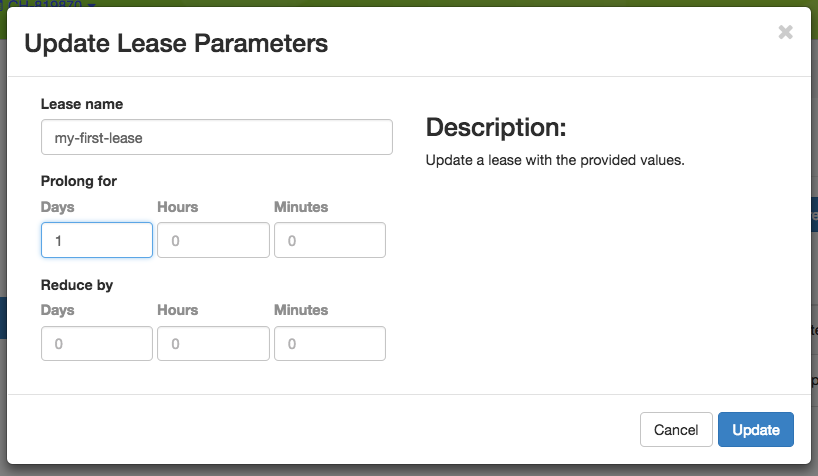
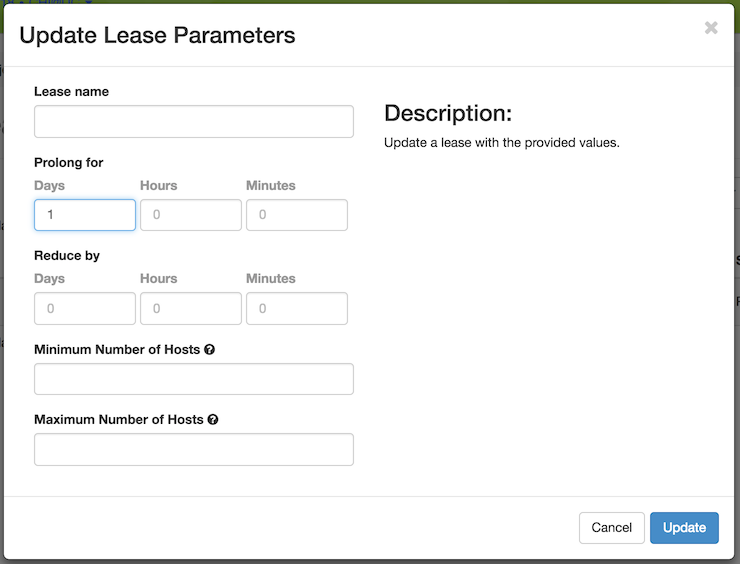
Document how to change the number of reserved nodes
This commit also updates screenshots to adapt to the new format for
lease status.

diff --git a/source/technical/reservations.rst b/source/technical/reservations.rst
@@ -100,6 +100,22 @@ Fill out the form by specifying the amount of additional time to add to the leas
 .. tip:: 
    If there is an advance reservation blocking your lease prolongation that could potentially be moved, you can interact through the users mailing list to coordinate with others users. Additionally, if you know from the start that your lease will require longer than a week and can justify it, you can submit a ticket on our `help desk <https://www.chameleoncloud.org/user/help/>`_ to request a **one-time exception** of creating a longer lease.
 
+Changing the Number of Nodes of a Lease
+---------------------------------------
+
+It is now possible to change the number of nodes reserved in a lease.
+For advance reservations that haven't yet started, the node count can be increased or decreased.
+For reservations already started, only new nodes can be added.
+
+To change the number of nodes of a lease, click on the *Update Lease* button in *Actions* column.
+
+.. figure:: reservations/updateleasenodecount.png
+   :alt: The Update Lease Parameters dialog, changing the number of reserved nodes
+
+   The Update Lease Parameters dialog, changing the number of reserved nodes
+
+Fill out the form by specifying the new minimum and maximum numbers of hosts. Then, click on the *Update* button to finish your request.
+
 Reserving a Node by UUID
 ________________________
 
